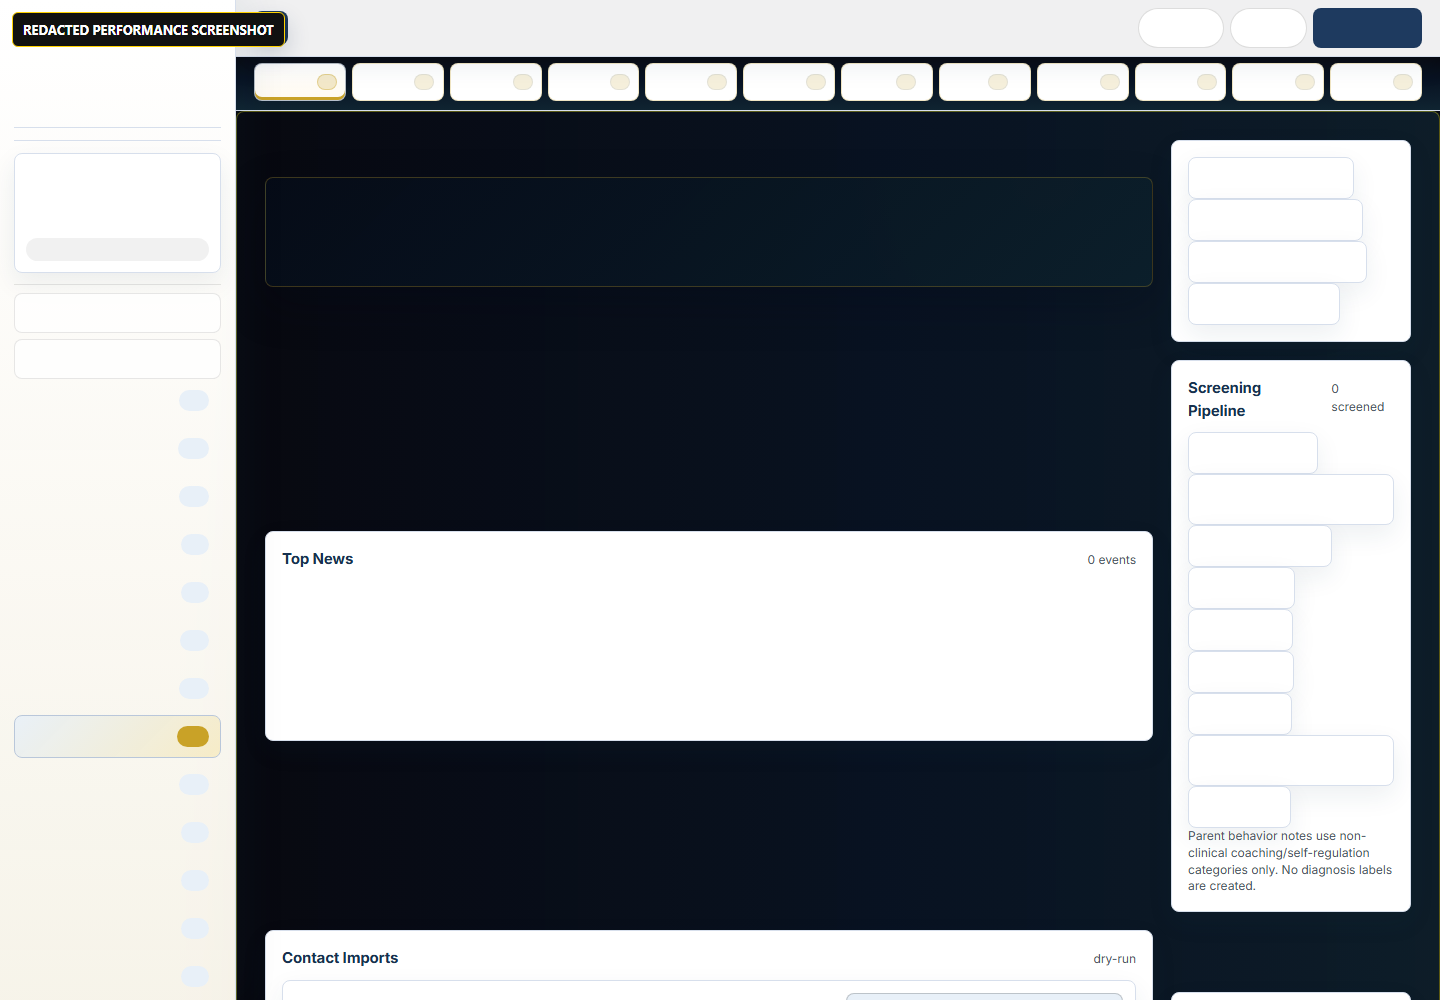
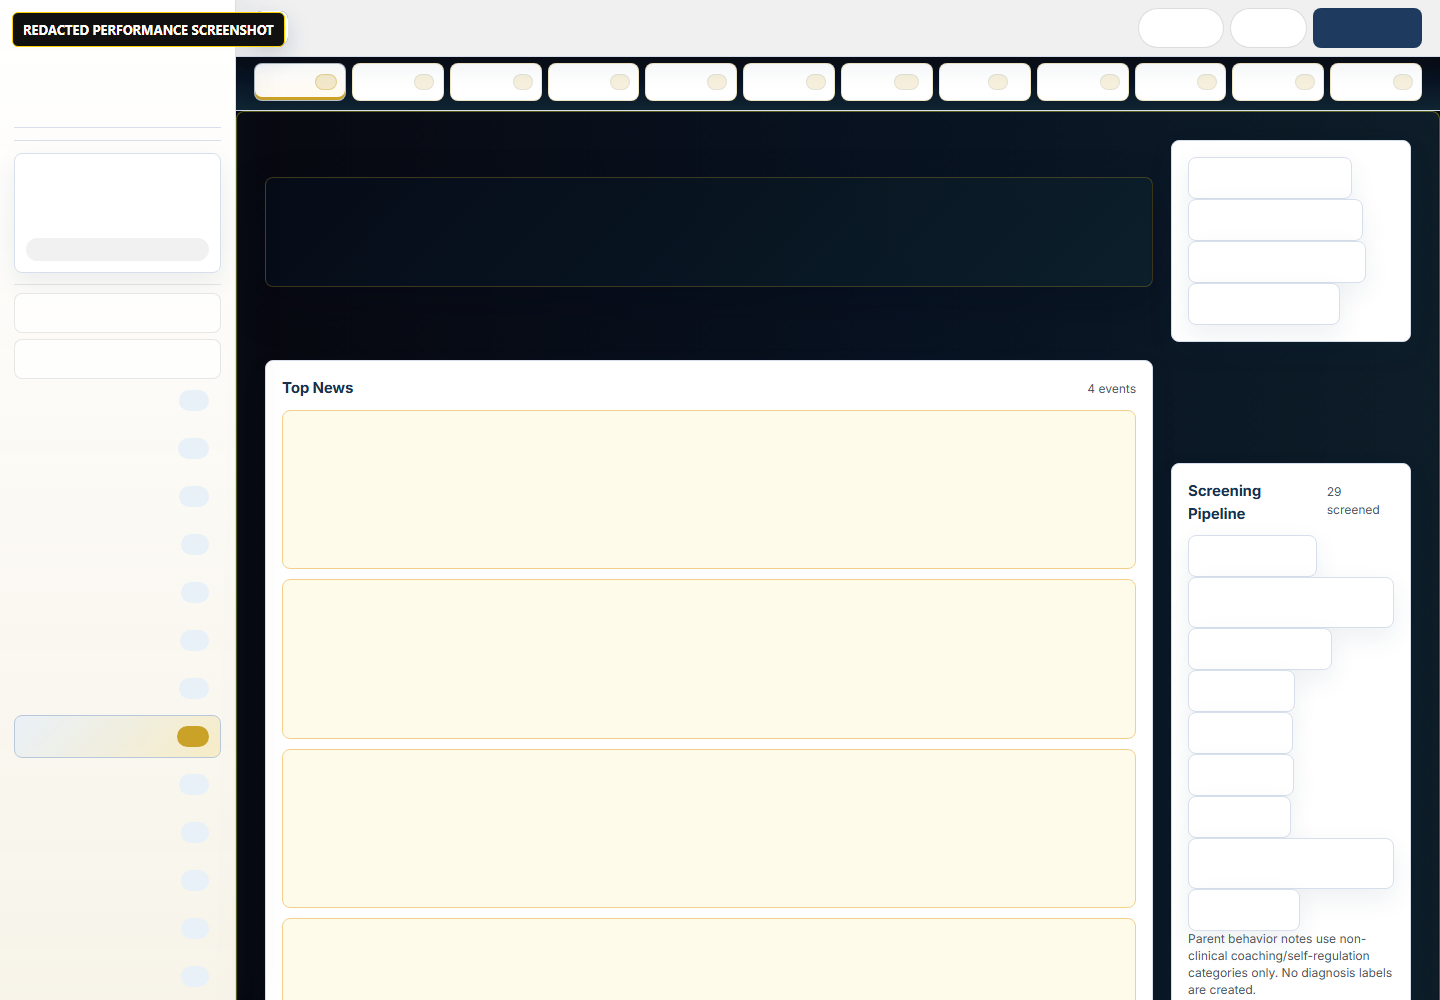
Record OneTime performance live evidence

diff --git a/tasks-pending/2026-07-08-app-backend-helper-performance.md b/tasks-pending/2026-07-08-app-backend-helper-performance.md
@@ -28,8 +28,8 @@ external provider mutation.
 
 | ID | Requirement | Source IDs | Workspace/project | Owner | Category | Priority | Batch | Dependencies | Acceptance criteria | Implementation files | Deploy/live required | Status |
 |---|---|---|---|---|---|---|---|---|---|---|---|---|
-| REQ-20260708-078 | Diagnose and reduce app/backend navigation latency across Operations and OneTime role surfaces. | RAW-20260708-022 | `bna_platform` / `one_time_mishnah_class` | Codex | performance | P0 | 1 | REQ-20260708-080 | Audit records route/API/browser click timings and identifies the top fix; app-visible fix improves measured latency or removes a verified bottleneck without weakening auth/scope/security. | `server.js`, `public/*.html`, `public/js/*.js`, scripts/tests as needed | yes | Local verified; deploy/live smoke pending |
-| REQ-20260708-079 | Diagnose helper/bot response latency and make safe fast paths faster without reducing reliability or reasoning quality. | RAW-20260708-022 | `bna_platform` / `one_time_mishnah_class` | Codex | helper-performance | P0 | 1 | REQ-20260708-080 | Helper audit records deterministic planner time and AI planner wait time; fixes must prefer deterministic routing, caching, timeout/UX feedback, or model-call avoidance for simple commands, not lower-quality answers. | `server.js`, `src/lib/bna/helper/planner.js`, helper tests/smokes as needed | yes if server-visible | Local verified; deploy/live smoke pending |
+| REQ-20260708-078 | Diagnose and reduce app/backend navigation latency across Operations and OneTime role surfaces. | RAW-20260708-022 | `bna_platform` / `one_time_mishnah_class` | Codex | performance | P0 | 1 | REQ-20260708-080 | Audit records route/API/browser click timings and identifies the top fix; app-visible fix improves measured latency or removes a verified bottleneck without weakening auth/scope/security. | `server.js`, `public/*.html`, `public/js/*.js`, scripts/tests as needed | yes | Done |
+| REQ-20260708-079 | Diagnose helper/bot response latency and make safe fast paths faster without reducing reliability or reasoning quality. | RAW-20260708-022 | `bna_platform` / `one_time_mishnah_class` | Codex | helper-performance | P0 | 1 | REQ-20260708-080 | Helper audit records deterministic planner time and AI planner wait time; fixes must prefer deterministic routing, caching, timeout/UX feedback, or model-call avoidance for simple commands, not lower-quality answers. | `server.js`, `src/lib/bna/helper/planner.js`, helper tests/smokes as needed | yes if server-visible | Done |
 | REQ-20260708-080 | Create current-state app/backend/helper latency audit evidence before implementation. | RAW-20260708-022 | `bna_platform` / `one_time_mishnah_class` | Codex | audit-first | P0 | 0 | none | Report includes API timings, browser navigation/click timings, helper plan timings, console/network errors, and first-fix recommendation. | `ops/prompt-packets/2026-07-08-app-backend-helper-performance/`, `ops/performance-audits/2026-07-08-app-backend-helper-performance/` | no | Done |
 
 ## Decisions
@@ -49,13 +49,13 @@ external provider mutation.
 | ID | Files/routes/components | Plan | Verification | Commit | Pushed commit | Deployment/live-smoke |
 |---|---|---|---|---|---|---|
 | REQ-20260708-080 | Operations, OneTime public/role pages, helper plan endpoints | Created and validated PQC packet; ran live baseline latency audit. | PASS `npm run pqc:validate -- ops/prompt-packets/2026-07-08-app-backend-helper-performance/00-current-state-performance-audit.product-quality.json`; baseline saved as `before-report.*`. | Pending | Pending | Not required for audit |
-| REQ-20260708-078 | `/operations`, `/operations.html`, Operations browser shell | Changed both Operations shell entry points from `no-store` to `private, no-cache, max-age=0, must-revalidate` so browsers may store and revalidate the 2.35MB shell instead of discarding it every time. | PASS local readback: `/operations` and `/operations.html` return `private, no-cache, max-age=0, must-revalidate`; PASS focused tests. | Pending | Pending | Required |
-| REQ-20260708-079 | `src/lib/bna/helper/planner.js`, helper plan endpoint | Added deterministic support-ticket fast path for `slow`, `slowness`, `lag`, `laggy`, `performance`, `takes forever`, and `loading forever`; audit wording now tests raw slowness language without saying "create support ticket." | PASS helper planner tests; PASS local performance audit: raw slowness message planned `create_support_ticket` deterministically. | Pending | Pending | Required |
+| REQ-20260708-078 | `/operations`, `/operations.html`, Operations browser shell | Changed both Operations shell entry points from `no-store` to `private, no-cache, max-age=0, must-revalidate` so browsers may store and revalidate the 2.35MB shell instead of discarding it every time. | PASS local readback; PASS live readback; PASS focused tests; PASS OneTime live smoke. | `9c3a18dd` | `2941eeff` | Railway `one-time-web` deployment `17147745-74f0-4b5d-a627-48903de33382` SUCCESS; live report saved in `report.md`. |
+| REQ-20260708-079 | `src/lib/bna/helper/planner.js`, helper plan endpoint | Added deterministic support-ticket fast path for `slow`, `slowness`, `lag`, `laggy`, `performance`, `takes forever`, and `loading forever`; audit wording now tests raw slowness language without saying "create support ticket." | PASS helper planner tests; PASS local performance audit; PASS live performance audit: raw slowness message planned `create_support_ticket` deterministically in about 260ms. | `9c3a18dd` | `2941eeff` | Railway `one-time-web` deployment `17147745-74f0-4b5d-a627-48903de33382` SUCCESS; live report saved in `report.md`. |
 
 ## Final Audit
 
 | ID | Status | Evidence | Files changed | Verification | Remaining issue |
 |---|---|---|---|---|---|
 | REQ-20260708-080 | Done | `ops/performance-audits/2026-07-08-app-backend-helper-performance/before-report.md`; `ops/prompt-packets/2026-07-08-app-backend-helper-performance/00-current-state-performance-audit.product-quality.json` | `scripts/audit-app-helper-performance.mjs`; PQC packet | PASS PQC validation; baseline live audit recorded `/operations` median 1156ms, 2,357,206 bytes, `Cache-Control: no-store`; helper paths were deterministic and sub-400ms on live baseline. | None for audit. |
-| REQ-20260708-078 | Local verified | `ops/performance-audits/2026-07-08-app-backend-helper-performance/local-after-report.md` | `server.js`; `tests/bna-helper-tools.test.js` | PASS `node --check server.js`; PASS `node --test tests/bna-helper-tools.test.js`; PASS local readback for `/operations` and `/operations.html`; PASS local performance audit. | Deploy and live readback still required. The next performance batch should split/lazy-load the 2.35MB Operations shell. |
-| REQ-20260708-079 | Local verified | `ops/performance-audits/2026-07-08-app-backend-helper-performance/local-after-report.md` | `src/lib/bna/helper/planner.js`; `scripts/audit-app-helper-performance.mjs`; `tests/bna-helper-tools.test.js` | PASS `node --check src/lib/bna/helper/planner.js`; PASS `node --check scripts/audit-app-helper-performance.mjs`; PASS helper tests; PASS local audit with raw slowness wording. | Deploy and live helper readback still required. |
+| REQ-20260708-078 | Done | `ops/performance-audits/2026-07-08-app-backend-helper-performance/report.md`; `ops/performance-audits/2026-07-08-app-backend-helper-performance/local-after-report.md`; live header readback | `server.js`; `tests/bna-helper-tools.test.js`; `scripts/railway-redeploy.ps1`; `scripts/release-captain.mjs` | PASS `node --check server.js`; PASS `node --test tests/bna-helper-tools.test.js`; PASS `npm run one-time:target:guard`; PASS `npm run app:smoke:onetime-separate-instance -- https://join.onetimeonetime.com`; PASS live readback for `/operations` and `/operations.html`; PASS live performance audit. | The first fix is live, but `/operations` remains the slowest measured path because the shell is still 2.35MB. Next batch: split/lazy-load the Operations shell. |
+| REQ-20260708-079 | Done | `ops/performance-audits/2026-07-08-app-backend-helper-performance/report.md`; `ops/performance-audits/2026-07-08-app-backend-helper-performance/local-after-report.md` | `src/lib/bna/helper/planner.js`; `scripts/audit-app-helper-performance.mjs`; `tests/bna-helper-tools.test.js` | PASS `node --check src/lib/bna/helper/planner.js`; PASS `node --check scripts/audit-app-helper-performance.mjs`; PASS helper tests; PASS live audit with raw slowness wording. | None for this safe fast path. Do not downgrade helper reasoning/model quality; keep optimizing deterministic routing and measured UX waits. |

diff --git a/ops/performance-audits/2026-07-08-app-backend-helper-performance/report.md b/ops/performance-audits/2026-07-08-app-backend-helper-performance/report.md
@@ -1,41 +1,42 @@
 # App Backend And Helper Performance Audit
 
-Generated: 2026-07-08T17:51:13.419Z
-Base URL: http://127.0.0.1:8097
+Generated: 2026-07-08T17:58:52.166Z
+Base URL: https://join.onetimeonetime.com
 External writes performed: false
 
 ## API Timings
 
 | Path | Method | Status | Median | P95 | Bytes | Cache-Control |
 |---|---|---:|---:|---:|---:|---|
-| /api/health | GET | 200 | 240 | 240 | 107 |  |
-| /api/one-time/instance-config | GET | 200 | 3 | 3 | 379 |  |
-| /operations | GET | 200 | 9 | 9 | 2356672 | private, no-cache, max-age=0, must-revalidate |
-| /api/member-library | GET | 401 | 1 | 1 | 44 |  |
-| /api/one-time-classroom?review=one-time | GET | 200 | 4 | 4 | 3262 |  |
-| /api/provider-portal/session | GET | 401 | 1 | 1 | 40 | no-store |
-| /api/bna/helper/context?workspace_key=bna&project_key=bna | GET | 200 | 241 | 241 | 26615 | no-store |
+| /api/health | GET | 200 | 240 | 427 | 70 |  |
+| /api/one-time/instance-config | GET | 200 | 229 | 232 | 950 |  |
+| /operations | GET | 200 | 1328 | 1928 | 2356672 | private, no-cache, max-age=0, must-revalidate |
+| /api/member-library | GET | 401 | 242 | 252 | 44 |  |
+| /api/one-time-classroom?review=one-time | GET | 200 | 244 | 245 | 3262 |  |
+| /api/provider-portal/session | GET | 401 | 243 | 251 | 40 | no-store |
+| /api/bna/helper/context?workspace_key=bna&project_key=bna | GET | 200 | 261 | 273 | 26682 | no-store |
 
 ## Helper Timings
 
 | Name | Status | Duration | Planner | Helper Status | First Tool | Actions |
 |---|---:|---:|---|---|---|---:|
-| deterministic navigation | 200 | 996 | deterministic | planned | open_operations_view | 1 |
-| deterministic performance report | 200 | 973 | deterministic | confirmation_required | create_support_ticket | 1 |
+| deterministic navigation | 200 | 256 | deterministic | planned | open_operations_view | 1 |
+| deterministic performance report | 200 | 260 | deterministic | confirmation_required | create_support_ticket | 1 |
+| complex planning fallback | 200 | 262 | deterministic | confirmation_required | create_support_ticket | 1 |
 
 ## Browser Timings
 
 | Route | Viewport | Navigation | Click | DOM Nodes | Resources | Iframes | Overflow | Console Errors | Failed Requests | Screenshot |
 |---|---|---:|---:|---:|---:|---:|---|---:|---:|---|
-| /operations?workspace=rabbi_sheller_provider&project=one_time_mishnah_class&view=service_providers&section=overview | 1440x1000 | 5810 | 28 | 587 | 8 | 0 | false | 0 | 0 | ops/performance-audits/2026-07-08-app-backend-helper-performance/operations-desktop.png |
-| /provider.html?admin_provider=one-time&section=communications | 1440x960 | 1248 |  | 418 | 5 | 0 | false | 1 | 0 | ops/performance-audits/2026-07-08-app-backend-helper-performance/provider-desktop.png |
-| /member-library | 390x844 | 1305 | 4 | 71 | 3 | 0 | false | 0 | 0 | ops/performance-audits/2026-07-08-app-backend-helper-performance/member-library-mobile.png |
-| /one-time-classroom | 390x844 | 1260 | 12 | 139 | 4 | 0 | false | 0 | 0 | ops/performance-audits/2026-07-08-app-backend-helper-performance/classroom-mobile.png |
+| /operations?workspace=rabbi_sheller_provider&project=one_time_mishnah_class&view=service_providers&section=overview | 1440x1000 | 2549 | 41 | 1518 | 28 | 0 | false | 0 | 0 | ops/performance-audits/2026-07-08-app-backend-helper-performance/operations-desktop.png |
+| /provider.html?admin_provider=one-time&section=communications | 1440x960 | 2053 |  | 418 | 5 | 0 | false | 1 | 0 | ops/performance-audits/2026-07-08-app-backend-helper-performance/provider-desktop.png |
+| /member-library | 390x844 | 1956 | 14 | 71 | 3 | 0 | false | 0 | 0 | ops/performance-audits/2026-07-08-app-backend-helper-performance/member-library-mobile.png |
+| /one-time-classroom | 390x844 | 2095 | 12 | 139 | 4 | 0 | false | 0 | 0 | ops/performance-audits/2026-07-08-app-backend-helper-performance/classroom-mobile.png |
 
 ## First Fix Recommendation
 
-- Target: operations_initial_load
-- Reason: Operations initial browser load took 5810ms; inspect large inline Operations shell and first render work.
+- Target: api_latency
+- Reason: /operations median 1328ms is the slowest measured API path.
 
 ## Guardrails
 

diff --git a/ops/agent-changelog.md b/ops/agent-changelog.md
@@ -34535,3 +34535,38 @@ Report: ops/agent-fleet-runs/2026-07-07T14-31-54-632Z-task-1518.md
 - Evidence:
   `ops/watchdog-audits/2026-07-08-codex-progress-telegram-update.md` and
   `ops/watchdog-audits/2026-07-08-onetime-wapi-class-link-readiness.md`.
+
+## 2026-07-08T21:00:00+03:00 - OneTime Operations/helper performance first fix
+
+- Registered `RAW-20260708-022` and `REQ-20260708-078` through
+  `REQ-20260708-080` for the app/backend/helper slowness report.
+- Added a current-state performance audit script and PQC packet with live API,
+  browser, helper-plan, console/error, and screenshot evidence.
+- Deployed the first safe performance fix to OneTime Railway service
+  `one-time-web`: `/operations` and `/operations.html` now return
+  `Cache-Control: private, no-cache, max-age=0, must-revalidate`, so the
+  2.35MB Operations shell can be browser-stored and revalidated instead of
+  being discarded as `no-store`.
+- Added deterministic helper routing for raw slowness/performance wording such
+  as `slow`, `laggy`, and `takes forever`; live helper planning remains
+  deterministic and about 260ms for those reports, without downgrading model
+  quality or safety gates.
+- Fixed the OneTime release guard to match the current public CTA `Sign Up Now`
+  and added an account-auth switch to the Railway redeploy helper so the
+  OneTime project can deploy without accidentally using the BNA project token.
+- Railway deployment `17147745-74f0-4b5d-a627-48903de33382` reached `SUCCESS`.
+- Verification passed: `node --check server.js`,
+  `node --check src/lib/bna/helper/planner.js`,
+  `node --check scripts/audit-app-helper-performance.mjs`,
+  `node --test tests/bna-helper-tools.test.js`,
+  `node --test tests/release-captain.test.js`, PQC validation,
+  action watchdog, protocol-drift watchdog, secrets audit, OneTime target guard,
+  OneTime live smoke, live header readback, and live performance audit.
+- Evidence:
+  `ops/performance-audits/2026-07-08-app-backend-helper-performance/report.md`,
+  `ops/performance-audits/2026-07-08-app-backend-helper-performance/before-report.md`,
+  `ops/performance-audits/2026-07-08-app-backend-helper-performance/local-after-report.md`,
+  and `tasks-pending/2026-07-08-app-backend-helper-performance.md`.
+- Remaining performance work: `/operations` is still the slowest measured path
+  because the Operations shell remains 2.35MB. The next batch should split and
+  lazy-load the Operations shell/modules rather than weakening helper reasoning.
